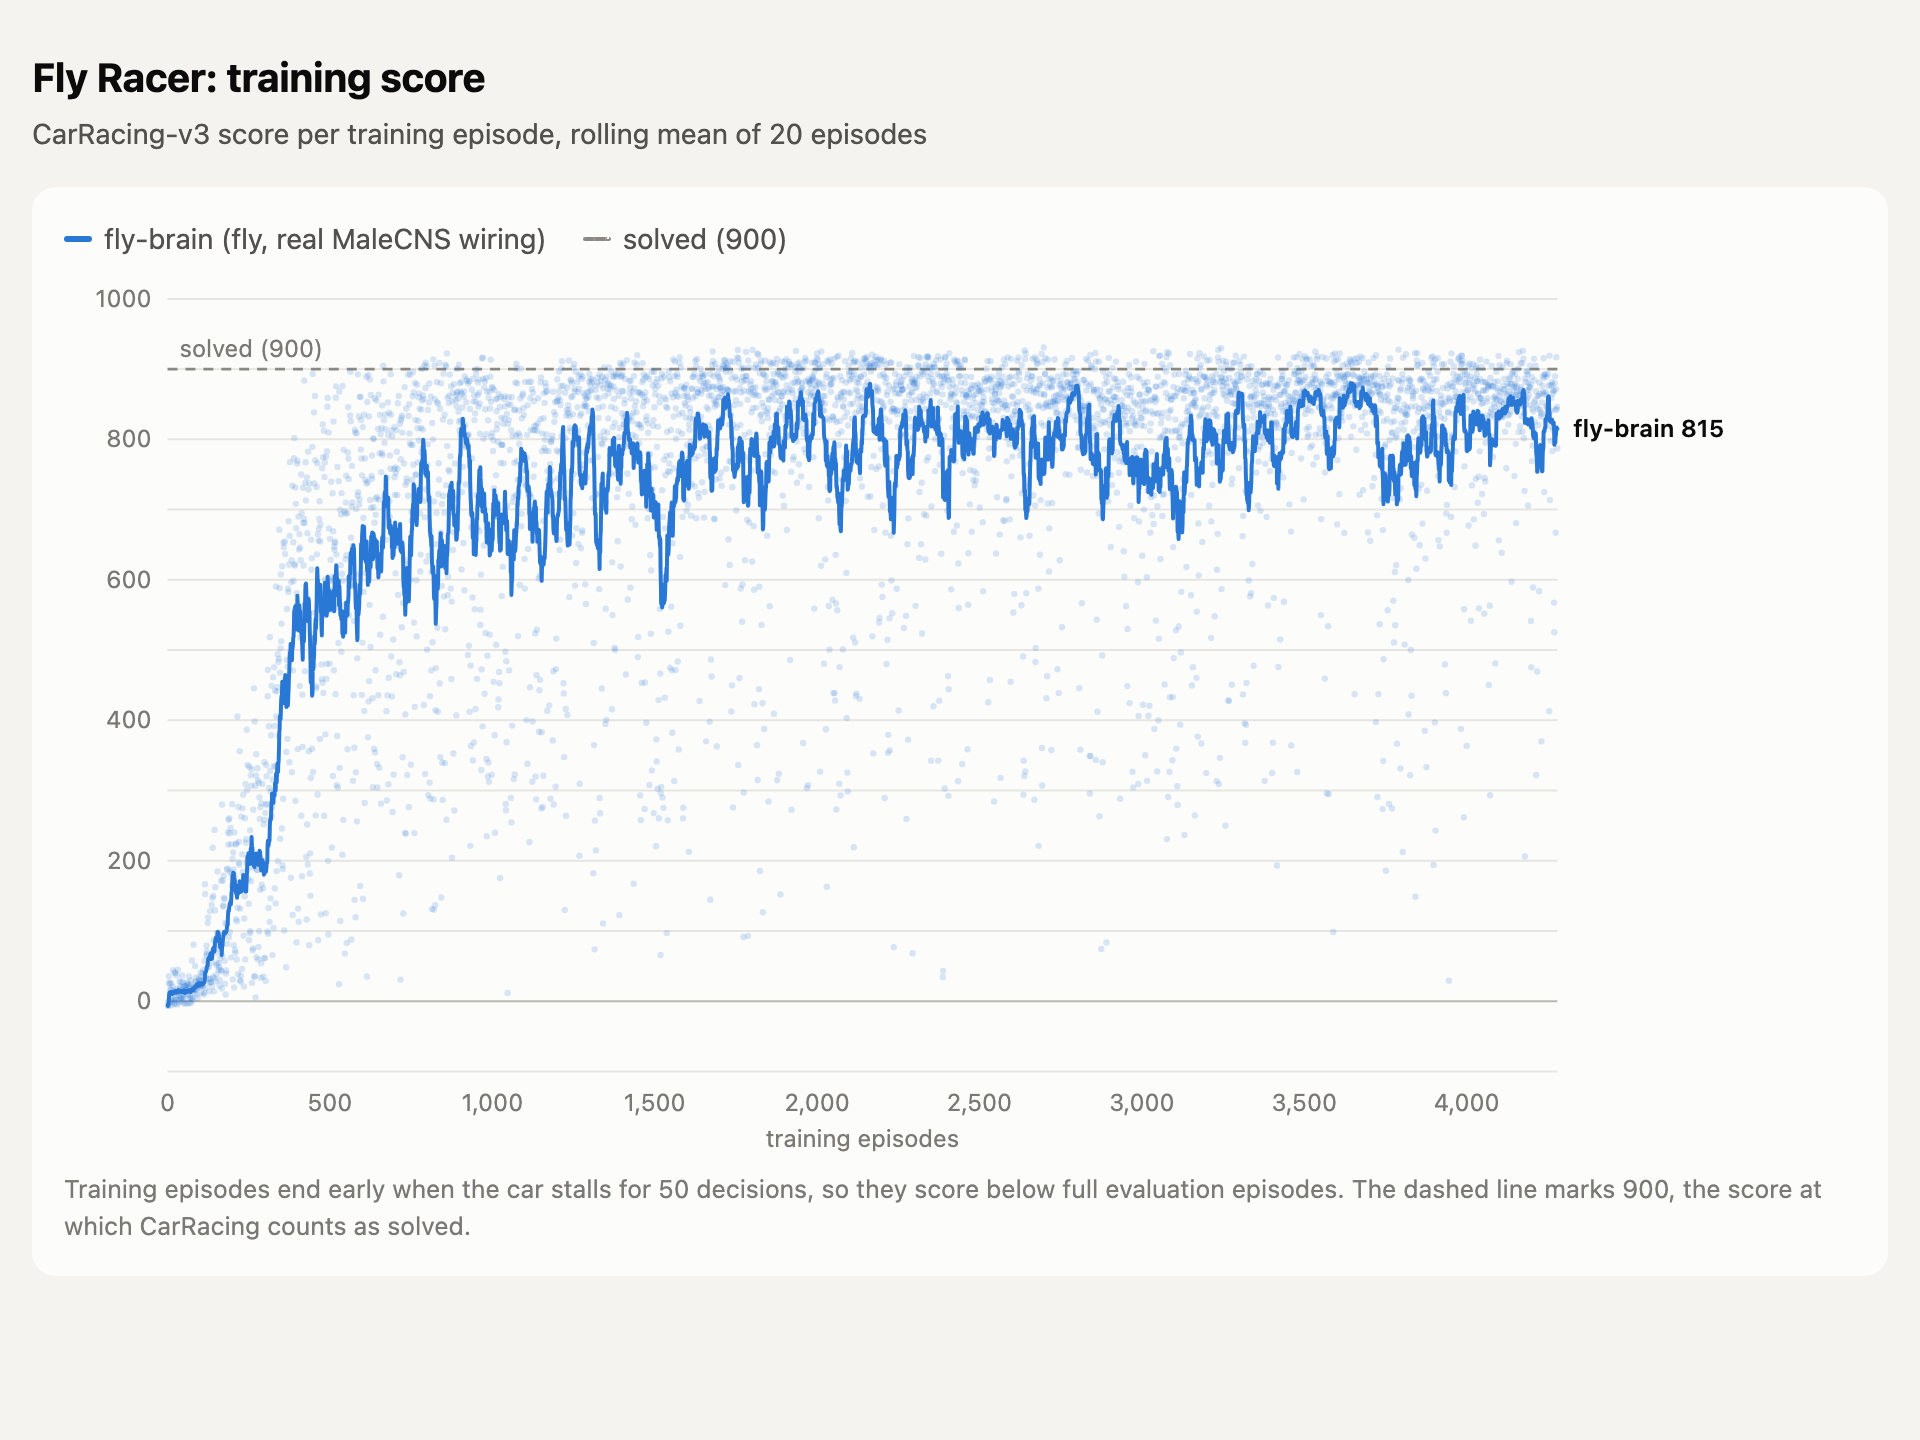
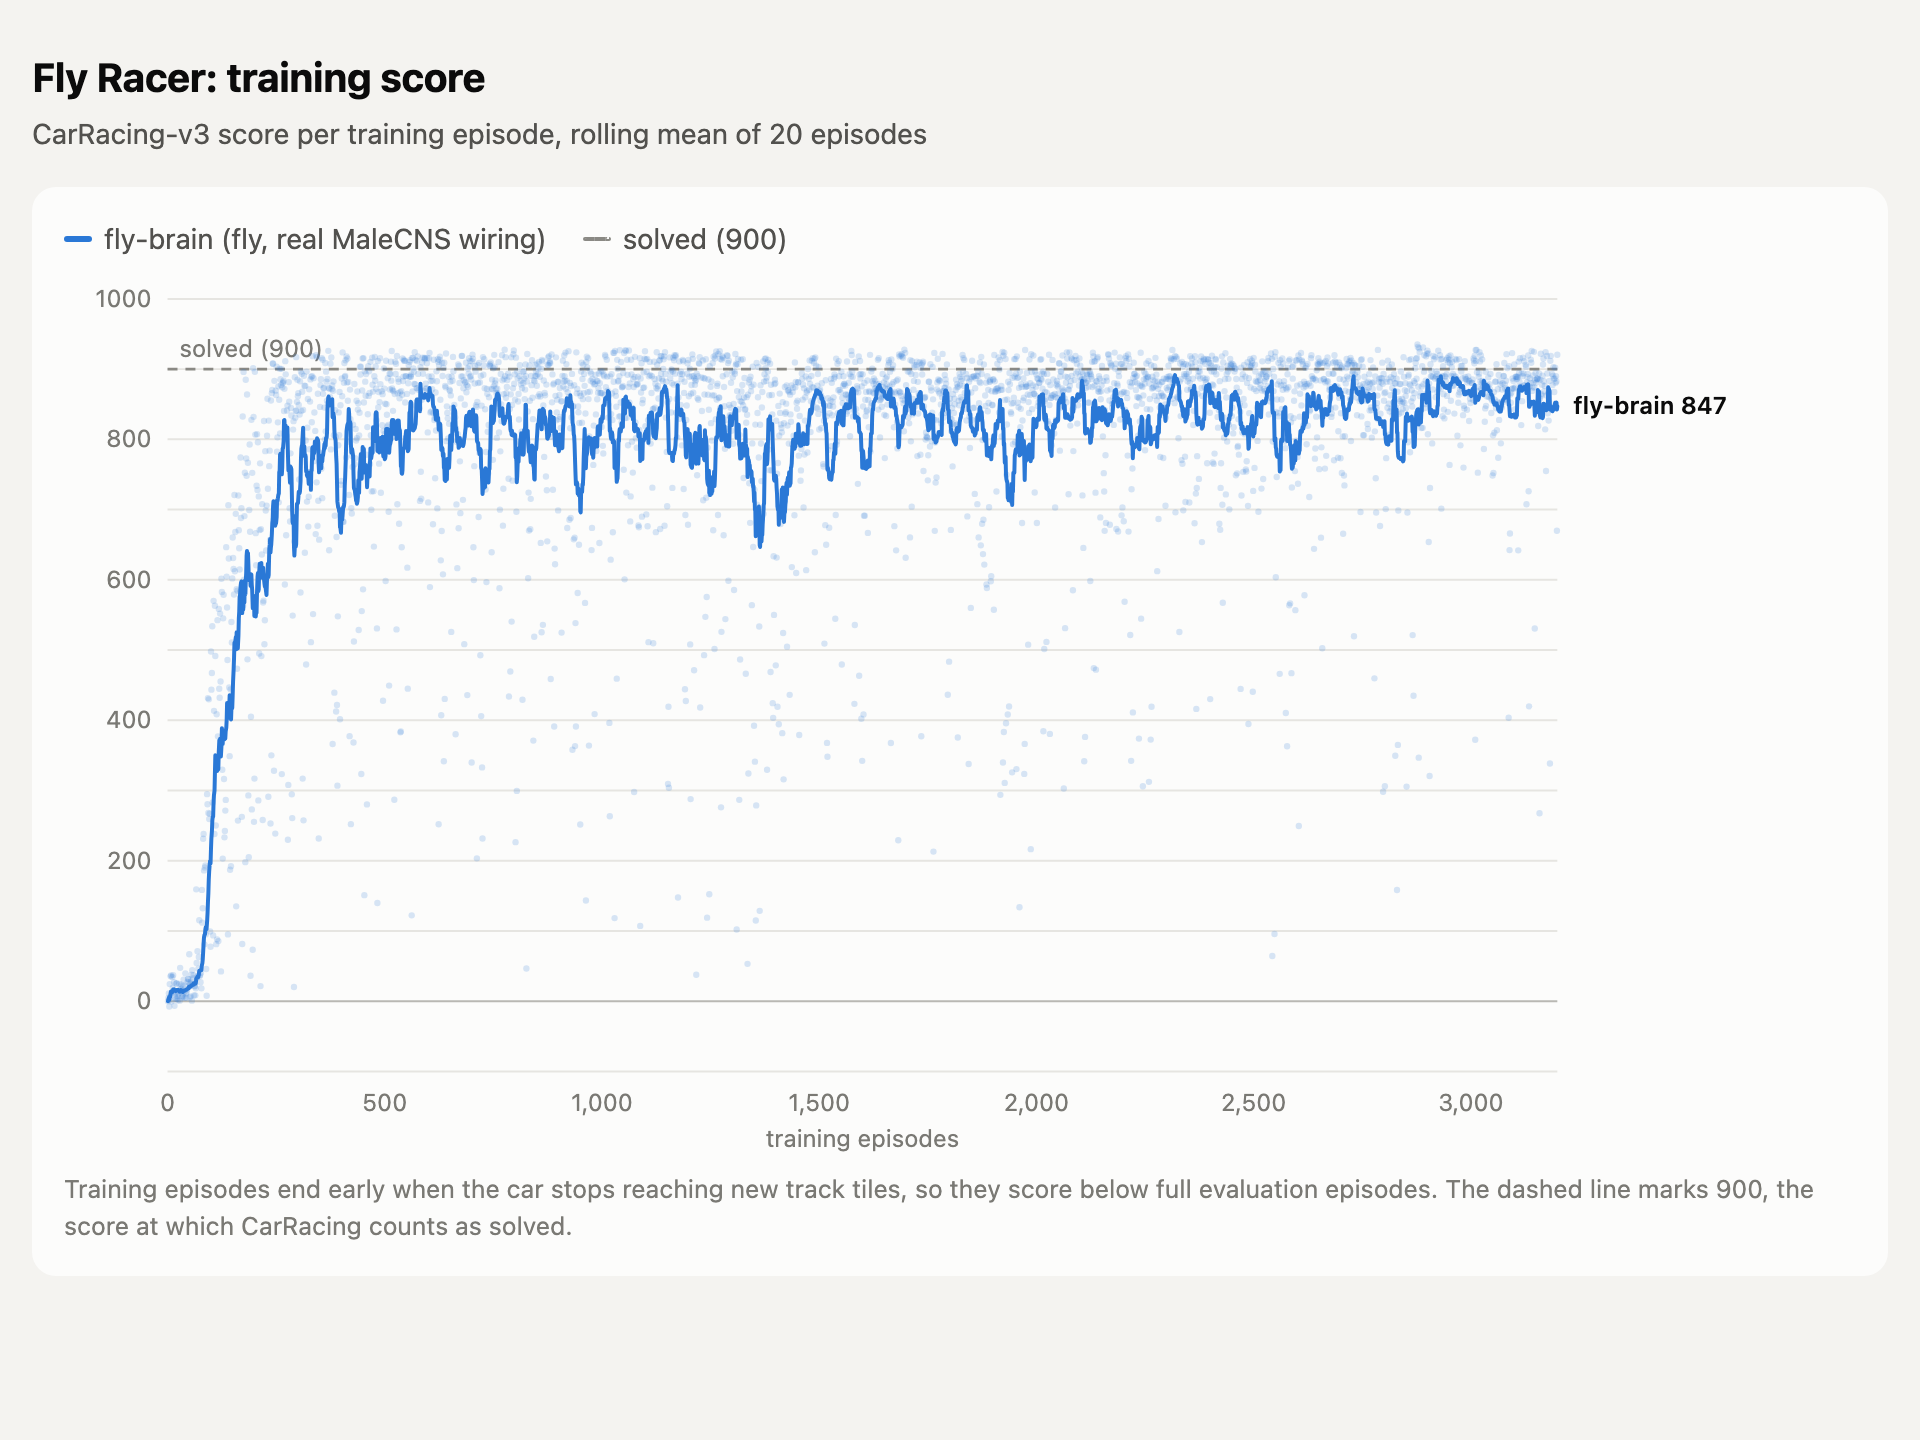
docs: update recipe, results, and training curve for 2-frame decisions

diff --git a/README.md b/README.md
@@ -44,11 +44,12 @@ PPO, CleanRL style, with these choices (all defaults in `flyracer/train.py`):
 | Action distribution | Beta per action in [0, 1] | Bounded like the controls, so no probability is wasted on clipped values; far more reliable driving than a clipped Gaussian |
 | Augmentation | DrAC: policy and value agree on frames shifted by up to 4 px (weight 0.1) | The biggest single gain on unseen tracks |
 | Update size | KL early stop at 0.02, 10 epochs, clip 0.2 | Keeps updates from undoing earlier learning |
-| Horizon | Discount 0.995, GAE 0.95 | Values finishing the lap, not just the next tile |
+| Control rate | A decision every 2 frames (25 per second) | Steering finely enough to hold speed through corners; laps get faster without leaving the road |
+| Horizon | Discount 0.9975 per decision (about 0.995 per 4 frames), GAE 0.95 | Values finishing the lap, not just the next tile |
 | Exploration | Entropy bonus 0.005 | Keeps trying faster lines |
 | Learning rate | 3e-4, linear decay to 10% | |
-| Episodes | Action repeat 4, stall early-stop after 50 decisions, reward normalization | Faster, cleaner training signal |
-| Model selection | Evaluate 16 held-out tracks every 50 updates, keep `best.pt` | Scores swing between updates; this keeps the best policy |
+| Episodes | Stall early-stop after 100 decisions (200 frames), reward normalization | Faster, cleaner training signal |
+| Model selection | Evaluate 16 held-out tracks every 25 updates, keep `best.pt` | Scores swing between updates; this keeps the best policy |
 
 ## Setup
 
@@ -85,7 +86,7 @@ It prints how many neurons each cell type pattern matched and writes `data/tier_
 .venv/bin/python -m flyracer.train --core mlp
 ```
 
-Runs write to `runs/<core>-<seed>/`: `progress.csv`, `episodes.csv`, `eval.csv`, checkpoints and `best.pt`. The default 1M decisions (4M game frames) take about 6.5 hours on an M4.
+Runs write to `runs/<core>-<seed>/`: `progress.csv`, `episodes.csv`, `eval.csv`, checkpoints and `best.pt`. The default 1.5M decisions (3M game frames) take about 6 to 8 hours on an M4.
 
 ## Evaluate
 
@@ -117,26 +118,29 @@ Writes a standalone interactive HTML chart (hover for values, data table, light 
 
 ## Results
 
-One `fly` run on the real Tier S graph, seed 1, 1M decisions. The best checkpoint (307k decisions) was picked on the selection tracks, then scored once on held-out tracks.
+One `fly` run on the real Tier S graph, seed 1, 1.5M decisions. The best checkpoint (1.08M decisions) was picked on the selection tracks, then scored once on each set of held-out tracks.
 
 | Tracks | Episodes | Mean score |
 |---|---|---|
-| Selection (seeds 10000+) | 24 | 891.8 +/- 35.8 |
-| Holdout (seeds 20000+) | 24 | 885.5 +/- 39.5 |
-| Holdout (seeds 30000+) | 100 | 891.8 +/- 36.0 |
+| Selection (seeds 10000+) | 24 | 894.4 +/- 52.3 |
+| Holdout (seeds 30000+) | 100 | 903.2 +/- 23.2 |
+| Holdout, tracks 30000 to 30099 one at a time | 100 | 901.4 +/- 40.1 |
+| Holdout, tracks 50000 to 50099 one at a time | 100 | 897.7 +/- 48.5 |
+| All 300 holdout tracks | 300 | 900.8 |
 
-Driving on the 100 tracks 30000 to 30099, one track at a time:
+CarRacing counts as solved at an average of 900 over 100 episodes, which the fly brain clears on unseen tracks.
+
+Driving on tracks 30000 to 30099:
 
 | Metric | Value |
 |---|---|
-| Mean / median score | 896.8 / 908.9 |
-| Laps finished within 20 s | 74 / 100 |
-| Mean score of finished laps | 911.6 |
-| Average lap time | 17.7 s |
-| Track covered | 98.8% |
-| Best lap | track 26, 919.3 in 16.2 s |
+| Median score | 915.5 |
+| Laps finished within 20 s | 73 / 100 |
+| Mean score of finished laps | 917.5 |
+| Average lap time | 16.5 s |
+| Track covered | 98.9% |
 
-What limits the score: an episode ends after 1,000 frames (20 s) and every frame costs 0.1 points, so a finished lap scores about `1000 - 5 x lap seconds`. A 20 second lap scores exactly 900, the "solved" line. The car stays on the road (off-road under 1% of the time); the points it loses come from long tracks it cannot finish in 20 s, timing out with most of the track covered.
+What limits the score: an episode ends after 1,000 frames (20 s) and every frame costs 0.1 points, so a finished lap scores about `1000 - 5 x lap seconds`. A 20 second lap scores exactly 900. The car stays on the road; the points it loses come from long tracks it cannot finish in 20 s, timing out with most of the track covered.
 
 ![Training curve](docs/training_curve.png)
 
